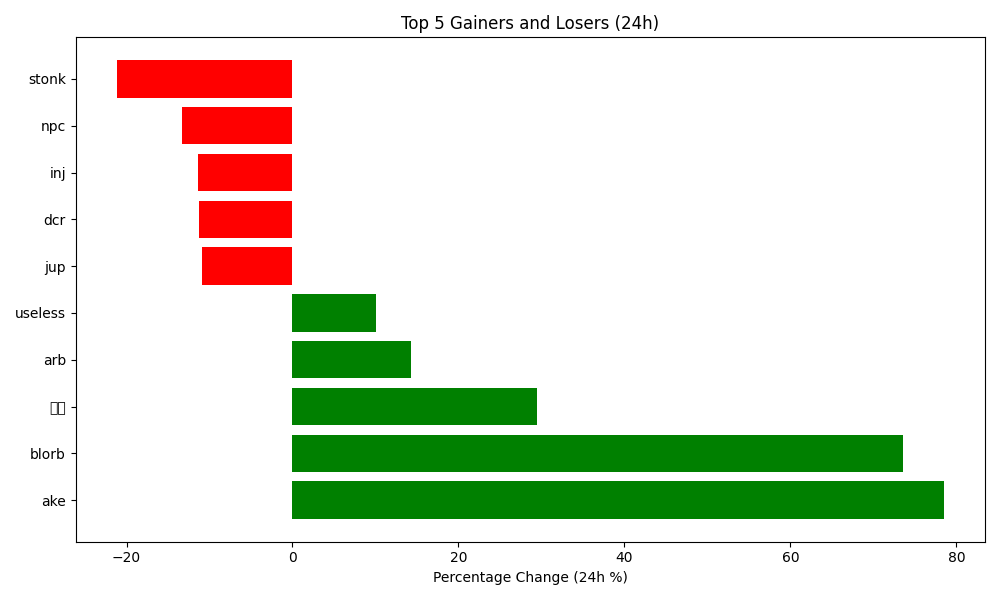
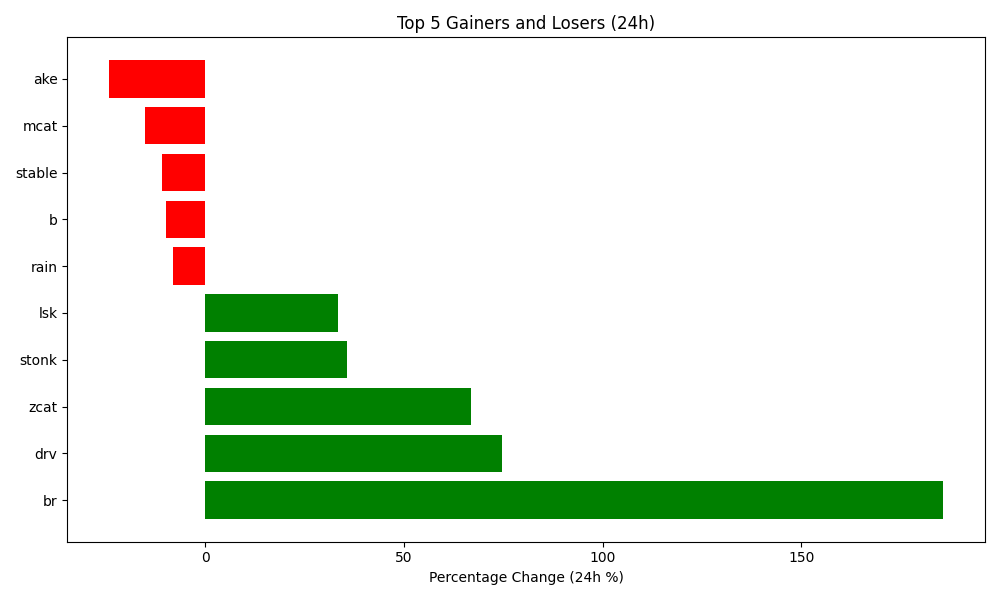
Auto-update crypto data and plot

diff --git a/README.md b/README.md
@@ -4,7 +4,7 @@ Author: Hitesh Agrawal
 This repository automatically tracks the top 5 gaining, top 5 losing, and top 5 highest volume cryptocurrencies in the last 24 hours using the CoinGecko API, Python, Matplotlib, and GitHub Actions updates the below content everyday at midnight.
 
 <!-- START_DYNAMIC_CONTENT -->
-Last updated: 2026-09-16 02:42 UTC
+Last updated: 2026-09-17 02:46 UTC
 
 ![Crypto Movers Plot](crypto_movers_plot.png)
 
@@ -12,33 +12,33 @@ Last updated: 2026-09-16 02:42 UTC
 
 | Rank | Coin | Price Change (24h %) | Volume (USD) | Current Price (USD) |
 | :--: | :--: | :------------------: | :----------: | :-----------------: |
-| 1 | ake | 78.47% | $89,789,169 | $0.0284 |
-| 2 | blorb | 73.62% | $2,310,694 | $0.1131 |
-| 3 | 龙虾 | 29.49% | $28,361,810 | $0.2000 |
-| 4 | arb | 14.25% | $447,858,823 | $0.1534 |
-| 5 | useless | 10.08% | $38,881,150 | $0.2225 |
+| 1 | br | 185.66% | $54,833,843 | $0.6701 |
+| 2 | drv | 74.65% | $108,661,635 | $0.2417 |
+| 3 | zcat | 66.80% | $5,179,032 | $0.1369 |
+| 4 | stonk | 35.67% | $15,447,033 | $0.2101 |
+| 5 | lsk | 33.43% | $251,771,439 | $0.5166 |
 
 
 **👇 Top 5 Losers (24h)**
 
 | Rank | Coin | Price Change (24h %) | Volume (USD) | Current Price (USD) |
 | :--: | :--: | :------------------: | :----------: | :-----------------: |
-| 1 | stonk | -21.14% | $34,725,400 | $0.1553 |
-| 2 | npc | -13.27% | $8,002,352 | $0.0194 |
-| 3 | inj | -11.36% | $112,310,182 | $5.4500 |
-| 4 | dcr | -11.23% | $2,645,910 | $14.9000 |
-| 5 | jup | -10.92% | $65,486,401 | $0.2140 |
+| 1 | ake | -24.17% | $44,224,139 | $0.0217 |
+| 2 | mcat | -14.99% | $6,188,553 | $0.2486 |
+| 3 | stable | -10.78% | $10,008,991 | $0.0240 |
+| 4 | b | -9.91% | $4,348,676 | $0.1867 |
+| 5 | rain | -8.13% | $31,107,578 | $0.0129 |
 
 
 **💎 Top 5 by Trade Volume (24h)**
 
 | Rank | Coin | Price Change (24h %) | Volume (USD) | Current Price (USD) |
 | :--: | :--: | :------------------: | :----------: | :-----------------: |
-| 1 | usdt | -0.05% | $68,926,747,617 | $0.9994 |
-| 2 | btc | -2.39% | $39,983,122,719 | $75,972.0000 |
-| 3 | usdc | -0.02% | $20,094,818,704 | $0.9997 |
-| 4 | eth | -4.17% | $19,288,934,897 | $2,406.9300 |
-| 5 | xrp | -9.24% | $5,854,702,144 | $1.2900 |
+| 1 | usdt | -0.01% | $60,711,275,090 | $0.9993 |
+| 2 | btc | 0.62% | $31,202,859,406 | $76,385.0000 |
+| 3 | usdc | -0.00% | $18,383,456,188 | $0.9996 |
+| 4 | eth | 1.09% | $16,206,574,872 | $2,430.7800 |
+| 5 | xrp | 0.74% | $3,821,180,597 | $1.3000 |
 
 
 <!-- END_DYNAMIC_CONTENT -->
